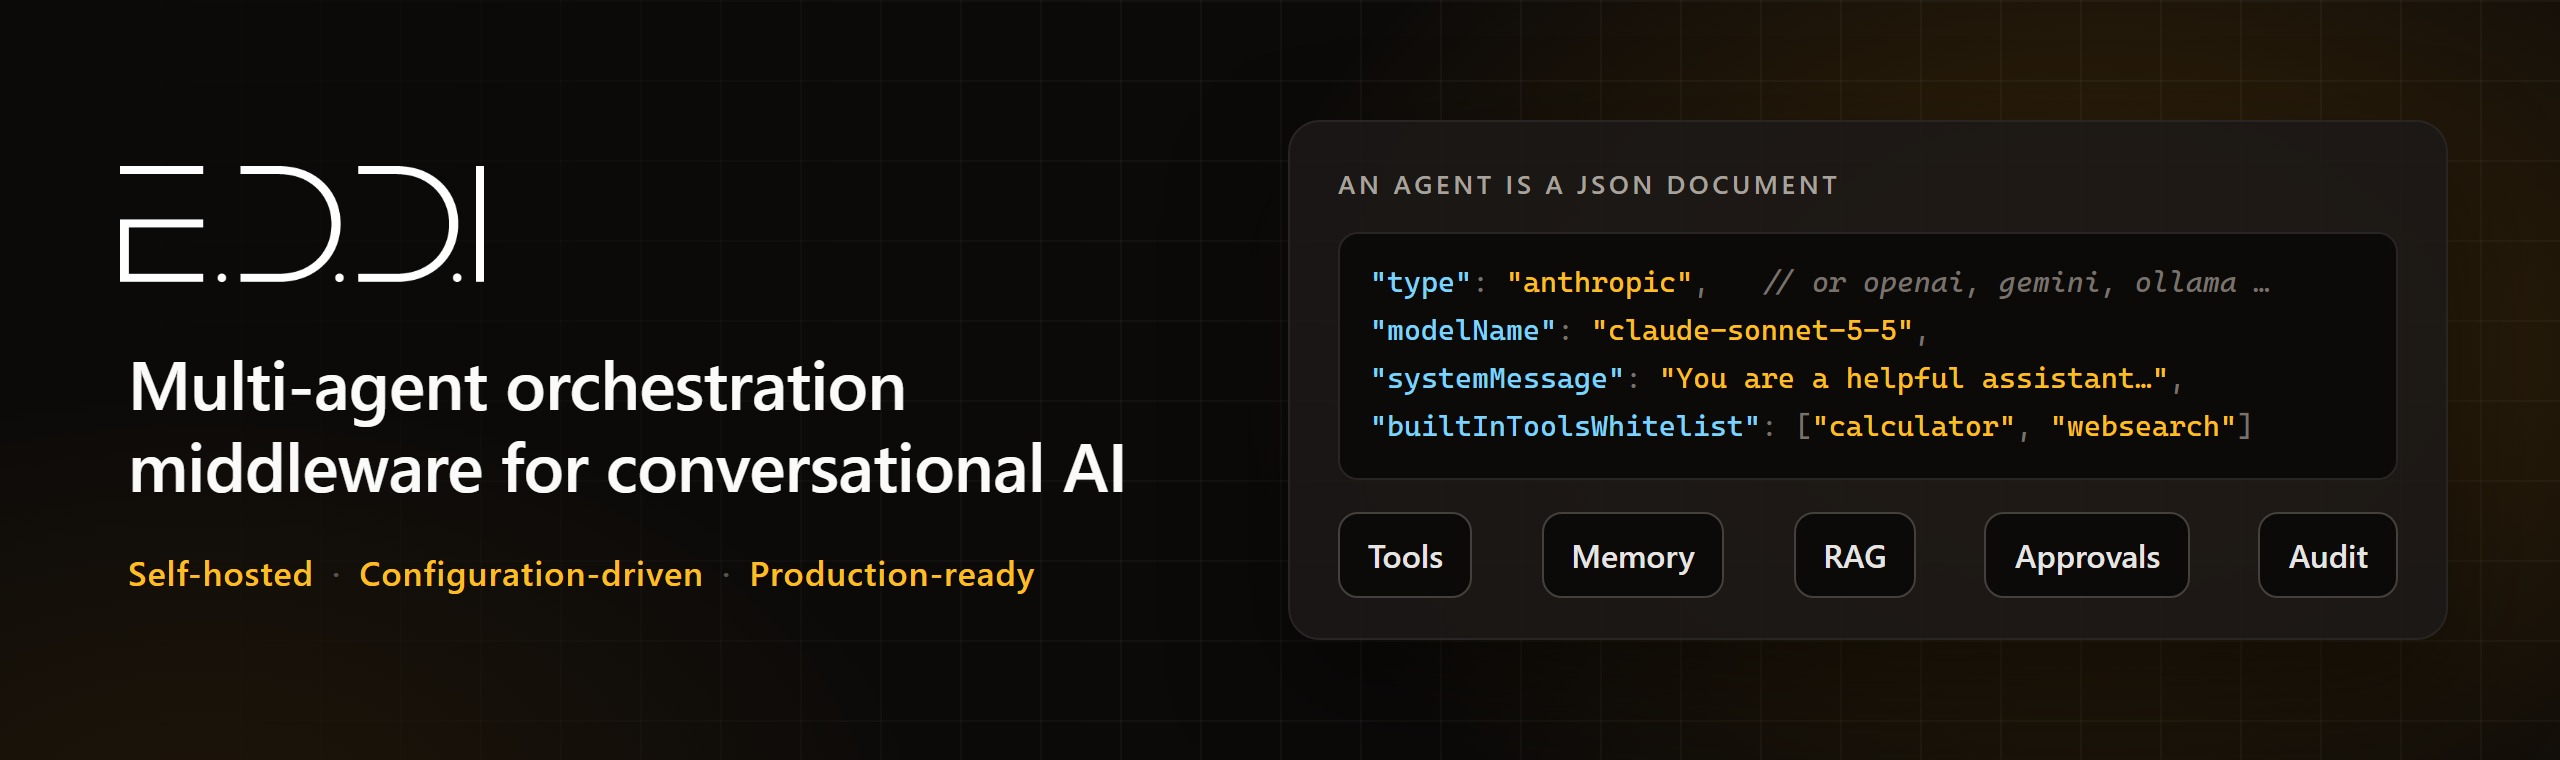
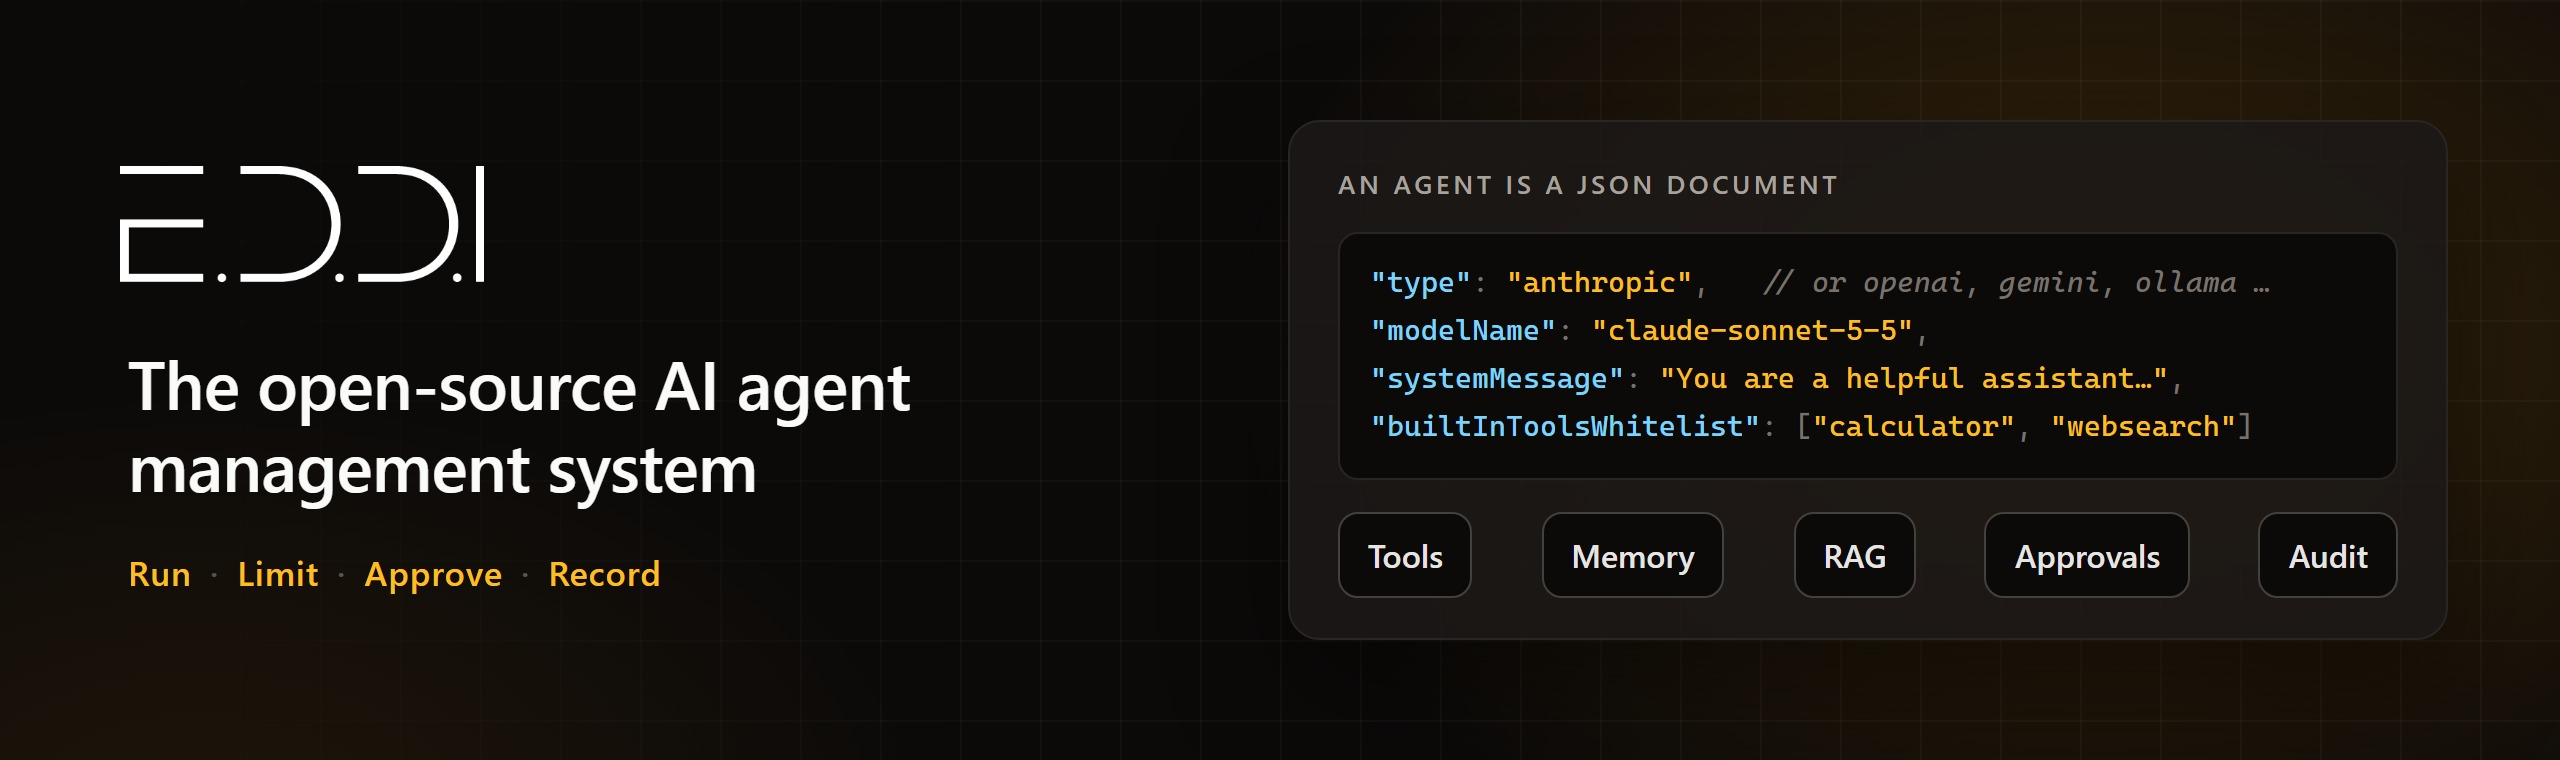
docs(readme): position EDDI as an AI agent management system
The opening line, the banner and Why EDDI now say what the product does
around an agent: run, limit, approve, record. Orchestration is one of
those capabilities, not the whole of it.

Changed region(s): [[0.0625, 0.575, 0.4375, 0.6658], [0.0312, 0.4842, 0.375, 0.575], [0.0312, 0.7263, 0.4062, 0.7868]]

diff --git a/branding/readme-banner/banner.html b/branding/readme-banner/banner.html
@@ -107,8 +107,8 @@
 
   <div class="left">
     <img class="wordmark" src="../../ui/packages/app-kit/src/assets/logo_eddi.png" alt="E.D.D.I" />
-    <h1>Multi-agent orchestration middleware for conversational AI</h1>
-    <div class="tags">Self-hosted<span>·</span>Configuration-driven<span>·</span>Production-ready</div>
+    <h1>The open-source AI agent management system</h1>
+    <div class="tags">Run<span>·</span>Limit<span>·</span>Approve<span>·</span>Record</div>
   </div>
 
   <div class="right">

diff --git a/README.md b/README.md
@@ -1,5 +1,5 @@
 <p align="center">
-  <img src="screenshots/eddi-banner.jpg" alt="EDDI: multi-agent orchestration middleware for conversational AI" />
+  <img src="screenshots/eddi-banner.jpg" alt="EDDI: the open-source AI agent management system. Run, limit, approve, record." />
 </p>
 
 # EDDI
@@ -10,20 +10,27 @@
 
 [![Docker Pulls](https://img.shields.io/docker/pulls/labsai/eddi)](https://hub.docker.com/r/labsai/eddi) [![Latest Release](https://img.shields.io/github/v/release/labsai/EDDI?label=latest&color=blue)](https://github.com/labsai/EDDI/releases) [![License](https://img.shields.io/github/license/labsai/EDDI)](LICENSE) [![Repository: AI Ready](https://img.shields.io/badge/Repository-AI_Ready-blueviolet?logo=robot)](AGENTS.md)
 
-EDDI (E.D.D.I, Enhanced Dialog Driven Interface) is a server you run between your users, your LLMs and your business systems. An agent is a set of versioned JSON configurations, not application code: which model it uses, its prompt, its tools and knowledge, what it remembers, and what needs a human's approval. The engine runs every turn through the same pipeline, enforces those settings, and records what happened. One Docker image serves the REST API, the admin dashboard and the chat UIs. It is Apache-2.0 licensed, ships as a Red Hat-certified container image, and was selected as a UNIDO Trusted Partner for Industrial AI.
+**The open-source AI agent management system.** Run teams of AI agents on your own infrastructure, limit what they may do, put a person in front of the decisions that matter, and keep a record of every step.
+
+EDDI (E.D.D.I, Enhanced Dialog Driven Interface) is a server you run between your users, your LLMs and your business systems. An agent is a set of versioned JSON configurations, not application code: which model it uses, its prompt, its tools and knowledge, what it remembers, and what needs a human's approval. One Docker image serves the REST API, the admin dashboard and the chat UIs. It is Apache-2.0 licensed, ships as a Red Hat-certified container image, and was selected as a UNIDO Trusted Partner for Industrial AI.
 
 [Website](https://eddi.technology/) · [Documentation](https://docs.labs.ai/) · [Quick start](#quick-start) · [Docker Hub](https://hub.docker.com/r/labsai/eddi) · [Discussions](https://github.com/labsai/EDDI/discussions)
 
 ## Why EDDI
 
-- **Agents are configuration.** Models, prompts, tools, API calls and knowledge bases are versioned JSON documents. Change an agent without redeploying the service, diff it, export it as a ZIP, or sync it to another instance.
-- **A strict engine around a creative model.** The engine, not the model, decides which tools an agent holds, what a conversation may cost, and which turns or tool calls wait for [a human's approval](docs/hitl.md). The [project philosophy](docs/project-philosophy.md) puts it as "the engine is strict so the AI can be creative."
-- **No dynamic code execution.** There is no `eval` and no script engine; custom logic runs in external MCP servers. Secrets sit in an envelope-encrypted vault, and the built-in tools refuse private and internal addresses (SSRF protection).
-- **Open protocols, both directions.** EDDI is an [MCP](docs/mcp-server.md) server (108 tools) and client, speaks [A2A](docs/a2a-protocol.md), and can present deployed agents through an [OpenAI-compatible `/v1` API](docs/open-webui-integration.md).
-- **Built for regulated deployments.** An HMAC-secured [audit ledger](docs/audit-ledger.md), GDPR/CCPA erasure and export, and deployment guides for HIPAA and the EU AI Act.
-- **Runs where you run.** One command with Docker, or Kubernetes and OpenShift; MongoDB or PostgreSQL; any number of replicas behind a load balancer with NATS JetStream.
+AI agents now take real actions, and their mistakes are expensive. EDDI is built around four things you need before you let them:
 
-EDDI is a service you deploy, not a library you import. If you want agent logic inside your own Java application, a library such as [LangChain4j](https://github.com/langchain4j/langchain4j), which EDDI itself builds on, is the closer fit. EDDI is for teams that want agents as governed, versioned configuration on shared infrastructure.
+- **Run.** Agents work alone or [as a team](docs/group-conversations.md), with any of 19 model providers or a local model, on your servers. One command with Docker, or Kubernetes and OpenShift; MongoDB or PostgreSQL.
+- **Limit.** An agent holds only the tools its configuration grants, within rate limits and cost budgets. There is no `eval` and no script engine; custom logic runs in external MCP servers. Secrets sit in an envelope-encrypted [vault](docs/secrets-vault.md).
+- **Approve.** Whole turns, single tool calls or phases of a group discussion can [wait for a person](docs/hitl.md), in the Manager, in Slack or over MCP.
+- **Record.** Every step lands in an HMAC-secured [audit ledger](docs/audit-ledger.md), with GDPR/CCPA erasure and export and deployment guides for HIPAA and the EU AI Act.
+
+Two things make that practical:
+
+- **Agents are configuration.** Models, prompts, tools, API calls and knowledge bases are versioned JSON documents. Change an agent without redeploying the service, diff it, export it as a ZIP, or sync it to another instance.
+- **Open protocols, both directions.** EDDI is an [MCP](docs/mcp-server.md) server (108 tools) and client, speaks [A2A](docs/a2a-protocol.md), and can present deployed agents through an [OpenAI-compatible `/v1` API](docs/open-webui-integration.md).
+
+EDDI is a service you deploy, not a library you import. If you want agent logic inside your own Java application, a library such as [LangChain4j](https://github.com/langchain4j/langchain4j), which EDDI itself builds on, is the closer fit. The [project philosophy](docs/project-philosophy.md) explains the design: "the engine is strict so the AI can be creative."
 
 ## Quick start
 

diff --git a/docs/changelog.d/2026-11-18-readme-redesign.md b/docs/changelog.d/2026-11-18-readme-redesign.md
@@ -48,6 +48,17 @@ where are the docs, how do I build it. Sections:
 Headings no longer carry emoji, so their anchors are plain (`#quick-start`,
 `#development`).
 
+### Positioning
+
+The page now calls EDDI "the open-source AI agent management system" and
+organises **Why EDDI** around four verbs: run, limit, approve, record.
+"Multi-agent orchestration middleware" described one capability; what the
+product does around an agent (grant its tools, cap its cost, gate its actions,
+keep the ledger) is management, and that is what a reader evaluating it for a
+regulated setting is looking for. `AGENTS.md`, `docs/README.md` and the
+repository description still use the older phrase; aligning them is a separate
+decision.
+
 ### Nothing was deleted, it moved
 
 | Was in `README.md` | Now in |
